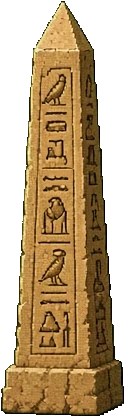
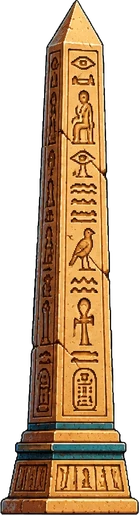
Ambientación nueva para los 4 reinos del arcade
- 24 objetos de primer plano con el estilo del rediseño (6 por reino)
- México y Japón ya tienen objetos; Grecia y Egipto se renuevan
- Herramienta tools/cut_props.py para recortar objetos sobre fondo verde
- Guía actualizada

diff --git a/src/arcade/engine.ts b/src/arcade/engine.ts
@@ -1848,7 +1848,7 @@ type Phase = 'play' | 'bossIntro' | 'boss' | 'levelClear' | 'gameOver' | 'finalO
 const CONTINUE_TICKS = 600;    // Cuenta regresiva de 10 s para continuar
 const COMBO_WINDOW = 180;      // Sin conectar un golpe en 3 s, el combo se pierde
 const RESULTS_TICKS = 600;     // Pantalla de resultados de cada nivel (se salta con ataque)
-const PROP_COUNT: Partial<Record<string, number>> = { Grecia: 6, Egipto: 6 }; // Objetos de primer plano por reino
+const PROP_COUNT: Partial<Record<string, number>> = { Grecia: 6, Egipto: 6, 'México': 6, 'Japón': 6 }; // Objetos de primer plano por reino
 const PROP_SLUG: Record<string, string> = { Grecia: 'grecia', Egipto: 'egipto', 'México': 'mexico', 'Japón': 'japon' };
 const RECORDS_KEY = 'mythic-clash-records';
 

diff --git a/tools/cut_props.py b/tools/cut_props.py
@@ -1,0 +1,69 @@
+# Recorta objetos sobre fondo verde (#00FF00) por figura conectada y los guarda en WebP con transparencia.
+# Uso: python cut_props.py <hoja> <prefijo_salida> <escala>
+import sys
+from collections import deque
+import numpy as np
+from PIL import Image
+
+src, prefix, scale = sys.argv[1], sys.argv[2], float(sys.argv[3])
+a = np.asarray(Image.open(src).convert('RGB')).astype(np.float32)
+R, G, B = a[..., 0], a[..., 1], a[..., 2]
+spill = G - np.maximum(R, B)
+# Alfa: verde puro = 0; contorno con algo de verde = semitransparente
+alpha = np.clip((140 - spill) / 80, 0, 1)
+fg = alpha > 0.5
+
+# Componentes en una rejilla de 4 px (sin scipy)
+S = 4
+h, w = fg.shape
+gh, gw = h // S, w // S
+grid = fg[:gh * S, :gw * S].reshape(gh, S, gw, S).any(axis=(1, 3))
+lab = np.zeros((gh, gw), np.int32)
+comps = []
+for sy, sx in zip(*np.nonzero(grid)):
+    if lab[sy, sx]:
+        continue
+    n = len(comps) + 1
+    lab[sy, sx] = n
+    q = deque([(sy, sx)])
+    cells = []
+    while q:
+        y, x = q.popleft()
+        cells.append((y, x))
+        for dy in (-1, 0, 1):
+            for dx in (-1, 0, 1):
+                ny, nx = y + dy, x + dx
+                if 0 <= ny < gh and 0 <= nx < gw and grid[ny, nx] and not lab[ny, nx]:
+                    lab[ny, nx] = n
+                    q.append((ny, nx))
+    ys = [c[0] for c in cells]
+    xs = [c[1] for c in cells]
+    comps.append(dict(id=n, size=len(cells), x0=min(xs), x1=max(xs), y0=min(ys), y1=max(ys)))
+
+big = [c for c in comps if c['size'] >= 400]
+small = [c for c in comps if c['size'] < 400]
+# Chispas, pétalos y hojas sueltas se unen al objeto grande más cercano en horizontal
+for c in small:
+    cx = (c['x0'] + c['x1']) / 2
+    best = min(big, key=lambda b: 0 if b['x0'] <= cx <= b['x1'] else min(abs(cx - b['x0']), abs(cx - b['x1'])))
+    best.setdefault('extra', []).append(c['id'])
+big.sort(key=lambda c: c['x0'])
+print(src, 'objetos:', len(big), [(c['x0'] * S, c['x1'] * S, c['size']) for c in big])
+
+# Quitar el verde del contorno
+out = a.copy()
+out[..., 1] = np.where(spill > 0, np.maximum(R, B) + np.minimum(spill, 0), G)
+rgba = np.dstack([out, alpha * 255]).clip(0, 255).astype(np.uint8)
+
+for i, c in enumerate(big):
+    ids = [c['id']] + c.get('extra', [])
+    m = np.isin(lab, ids)
+    mask = np.zeros((h, w), bool)
+    mask[:gh * S, :gw * S] = np.repeat(np.repeat(m, S, 0), S, 1)
+    piece = rgba.copy()
+    piece[~mask, 3] = 0
+    ys, xs = np.nonzero(piece[..., 3] > 10)
+    crop = Image.fromarray(piece[ys.min():ys.max() + 1, xs.min():xs.max() + 1], 'RGBA')
+    crop = crop.resize((max(1, round(crop.width * scale)), max(1, round(crop.height * scale))), Image.LANCZOS)
+    crop.save(f'{prefix}-{i}.webp', 'WEBP', quality=90, method=6)
+    print(f'  {prefix}-{i}', crop.size)

diff --git a/CLAUDE.md b/CLAUDE.md
@@ -57,7 +57,7 @@ public/
   portraits/*.webp             Medallones (12 dioses + Origen), 256x256 con fondo transparente
   arenas/*.webp                Arenas del versus
   backgrounds/*.webp           Fondos y suelos del arcade + Telar del Cosmos
-  props/<reino>-N.webp         Objetos de primer plano del arcade (grecia y egipto)
+  props/<reino>-N.webp         Objetos de primer plano del arcade (6 por reino: grecia, egipto, mexico, japon)
 art-src/                       Imágenes originales tal como salieron de Gemini/Grok (no se publican)
 tools/process_sprites.py       Recorta una hoja 4x4 irregular a cuadros iguales con los pies alineados
 ```
@@ -89,7 +89,7 @@ tools/process_sprites.py       Recorta una hoja 4x4 irregular a cuadros iguales 
   - **Resultados por nivel** con bonos de tiempo, sin morir y combo, más calificación **S/A/B/C** (`levelRank`).
   - **Récord por dios** en localStorage (`mythic-clash-records`).
 - **¿CONTINUAR?** con cuenta regresiva de 10 s y botón tocable. Continuar cuesta la mitad de los puntos.
-- **Ambiente animado por reino** (hojas, arena, brasas, pétalos, polvo de estrellas) y **objetos de primer plano con parallax**, que por ahora solo hay en Grecia y Egipto.
+- **Ambiente animado por reino** (hojas, arena, brasas, pétalos, polvo de estrellas) y **objetos de primer plano con parallax**: 6 por reino en los 4 reinos.
 
 ### Celular
 - Pantallas adaptables en vertical y horizontal. La variante de Tailwind `short:` (definida en `index.css`) aplica a pantallas de menos de 500 px de alto, o sea el celular en horizontal.
@@ -112,7 +112,7 @@ tools/process_sprites.py       Recorta una hoja 4x4 irregular a cuadros iguales 
    - **Dios:** `SPRITE_SHEET_OVERRIDES`, con `scale` ≈ (alto deseado en pantalla) / `idleHeight`.
    - **Segunda hoja:** `EXTRA_SHEET_OVERRIDES`, con `scale` = escala del dios × (alto de pie en la 1.ª hoja / alto de la guardia de pie en la 2.ª, fila 2 cuadro 1).
    - **Monstruo:** `MONSTER_SPRITES` en `levels.ts`.
-5. **Objetos de primer plano:** van sobre fondo verde (#00FF00). Se recortan por figura conectada (no por columnas, porque se pegan), se quita el halo verde y se guardan como `public/props/<reino>-N.webp`. Después se agrega el reino a `PROP_COUNT` en `engine.ts`. No hay scipy instalado: el recorte se hizo con un BFS sobre una rejilla de 4 px.
+5. **Objetos de primer plano:** van sobre fondo verde (#00FF00), 6 en fila. Se recortan con `python tools/cut_props.py art-src/props/<reino>-v2.webp public/props/<reino> 0.56` (por figura conectada, une chispas y pétalos sueltos al objeto más cercano, quita el halo verde y escala para que el más alto mida ~515 px). Después se agrega el reino a `PROP_COUNT` en `engine.ts`.
 6. Para que el usuario pase imágenes en alta, debe **descargarlas con el botón de Gemini/Grok**. Si las copia y pega se achican a 1024 px.
 
 ### Herramientas en esta compu
@@ -164,18 +164,15 @@ Plain solid pure black background. No text, no labels, no numbers, no grid lines
    - **Amaterasu:** destello del espejo sagrado.
    - **Susanoo:** ráfaga de cortes de viento.
    - **Raijin:** ondas eléctricas de los tambores.
-2. **Objetos de primer plano de México y Japón** (Grok, fondo verde, 6 objetos en fila). Los prompts ya se le dieron al usuario:
-   - **México:** cabeza de serpiente de piedra, helecho, pilar con grabados aztecas, brasero, cactus y agave.
-   - **Japón:** linterna de piedra, pilar de torii, rama de cerezo, bambú, farol de papel y zorro de piedra.
-3. **Música:** hoy solo hay sonidos sintetizados. Faltan una pista por reino, una de menú, una de jefe y una de Origen, de OpenGameArt o Pixabay Music (gratis y libres). Suno gratis no deja descargar.
-4. **Variedad en el arcade:** objetos que se rompen (vasijas y estatuas que sueltan comida, magia o puntos) y trampas por reino (rayos, arenas movedizas, lava, viento).
-5. **Fondos del arcade en capas** para un parallax real. Hoy cada fondo es una sola imagen.
-6. **Lo que hace volver a jugar:** desbloquear dioses, logros, aspectos alternos de colores y reto diario.
-7. **Ajustes pendientes de probar jugando:**
+2. **Música:** hoy solo hay sonidos sintetizados. Faltan una pista por reino, una de menú, una de jefe y una de Origen, de OpenGameArt o Pixabay Music (gratis y libres). Suno gratis no deja descargar.
+3. **Variedad en el arcade:** objetos que se rompen (vasijas y estatuas que sueltan comida, magia o puntos) y trampas por reino (rayos, arenas movedizas, lava, viento).
+4. **Fondos del arcade en capas** para un parallax real. Hoy cada fondo es una sola imagen.
+5. **Lo que hace volver a jugar:** desbloquear dioses, logros, aspectos alternos de colores y reto diario.
+6. **Ajustes pendientes de probar jugando:**
    - Dificultad de Origen (en arcade y torre).
    - Dureza de los mini-jefes.
    - Que el joystick se sienta bien en un celular real.
-8. **Detalles chicos:**
+7. **Detalles chicos:**
    - Las poses de agachado de la segunda hoja no se usan (el juego no distingue entre bloquear de pie y agachado).
    - `tools/process_sprites.py` guarda PNG, que luego hay que pasar a WebP a mano.
    - Los textos de ayuda que mencionan J/K/L no cambian si el jugador reasigna las teclas.
